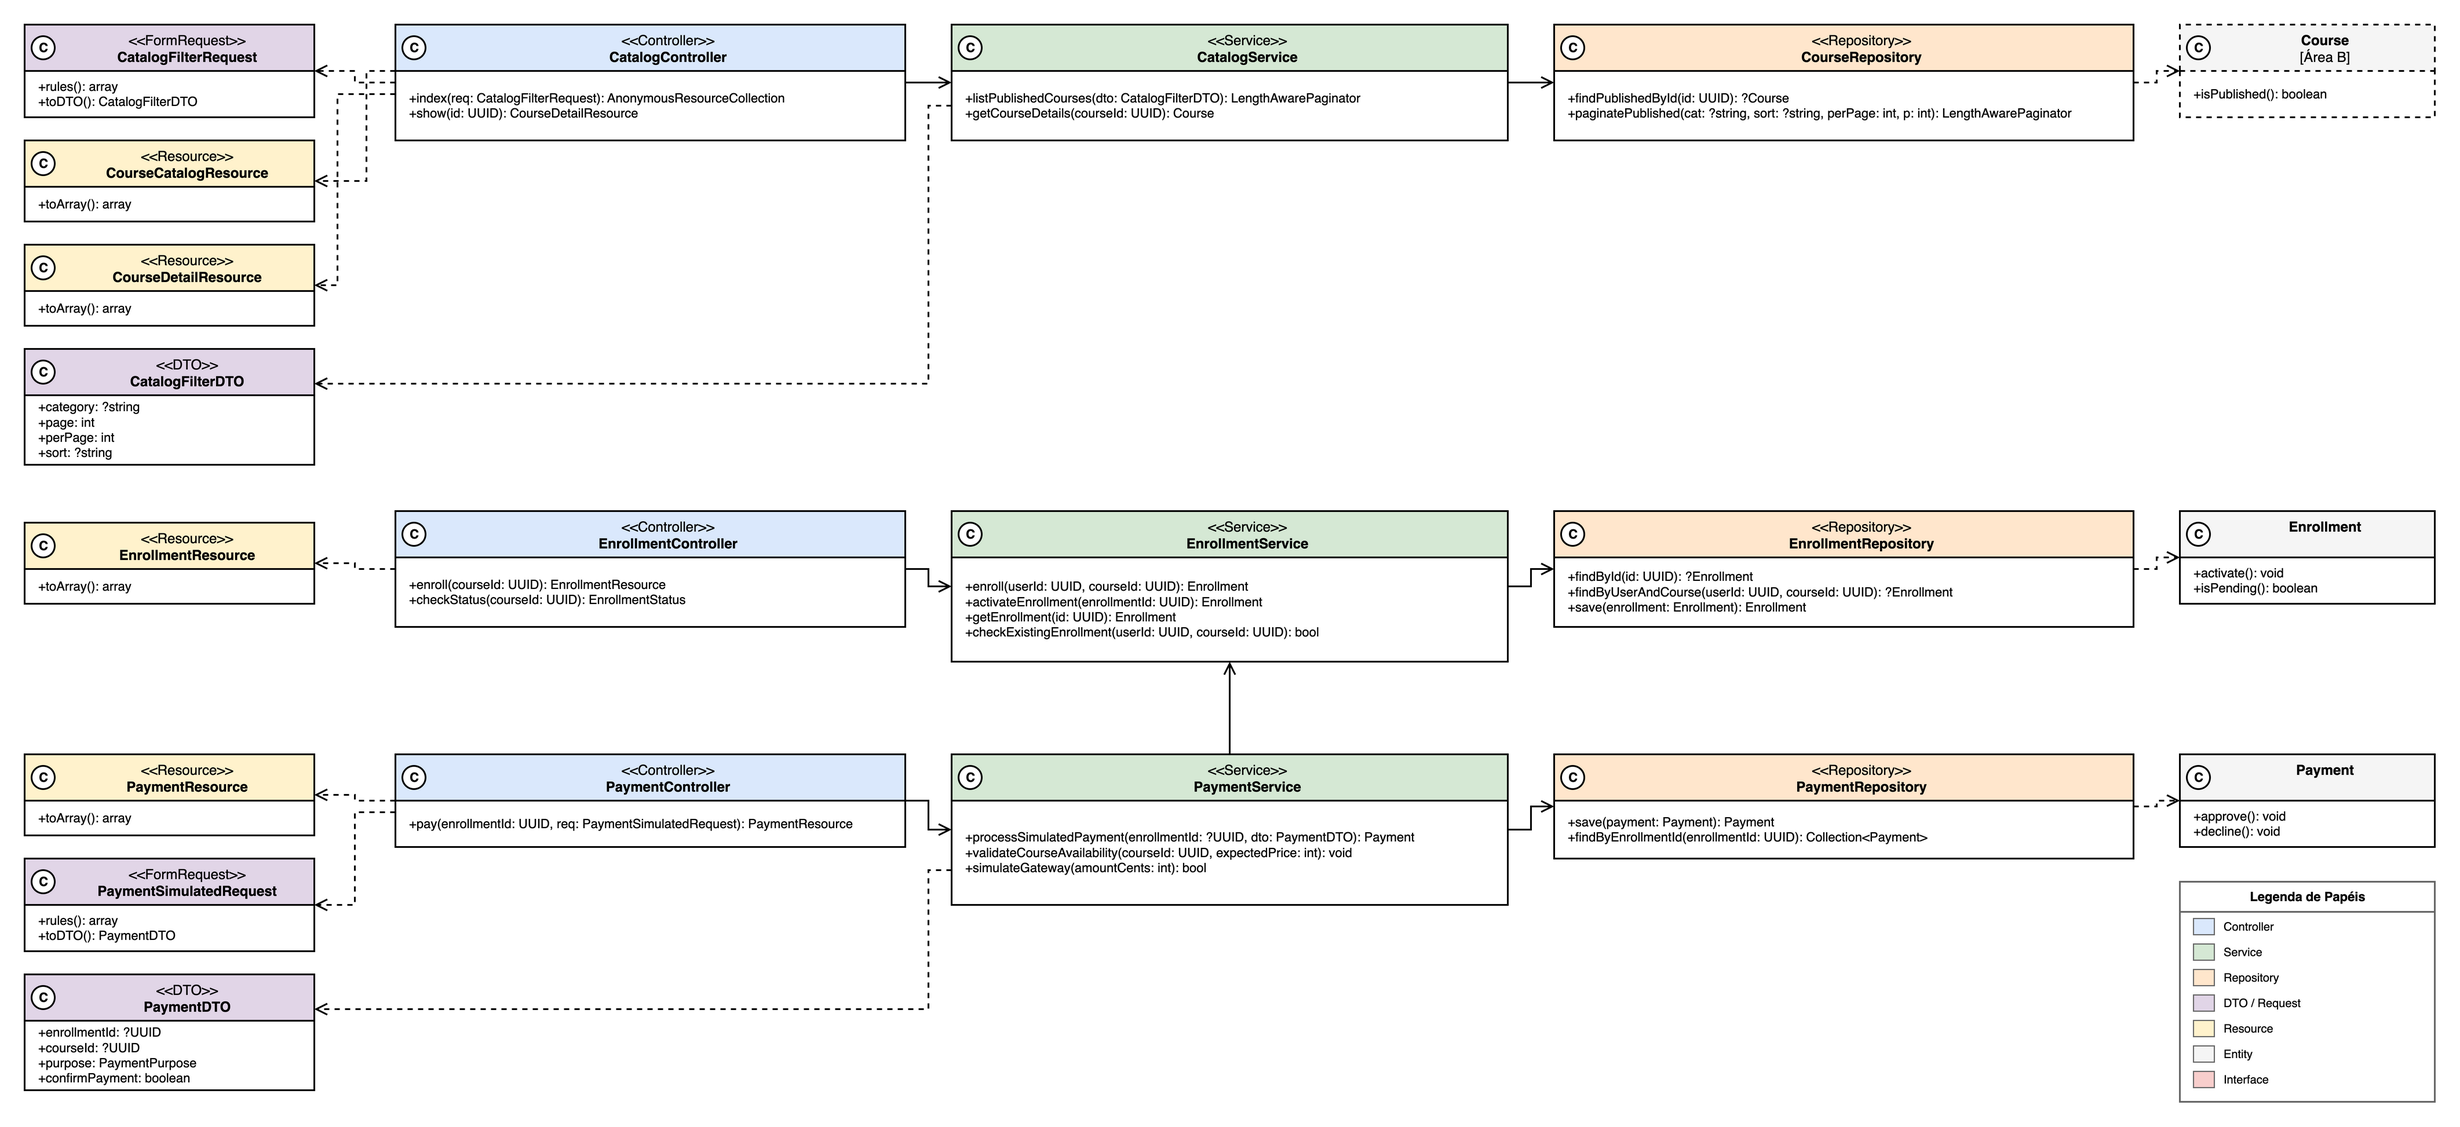
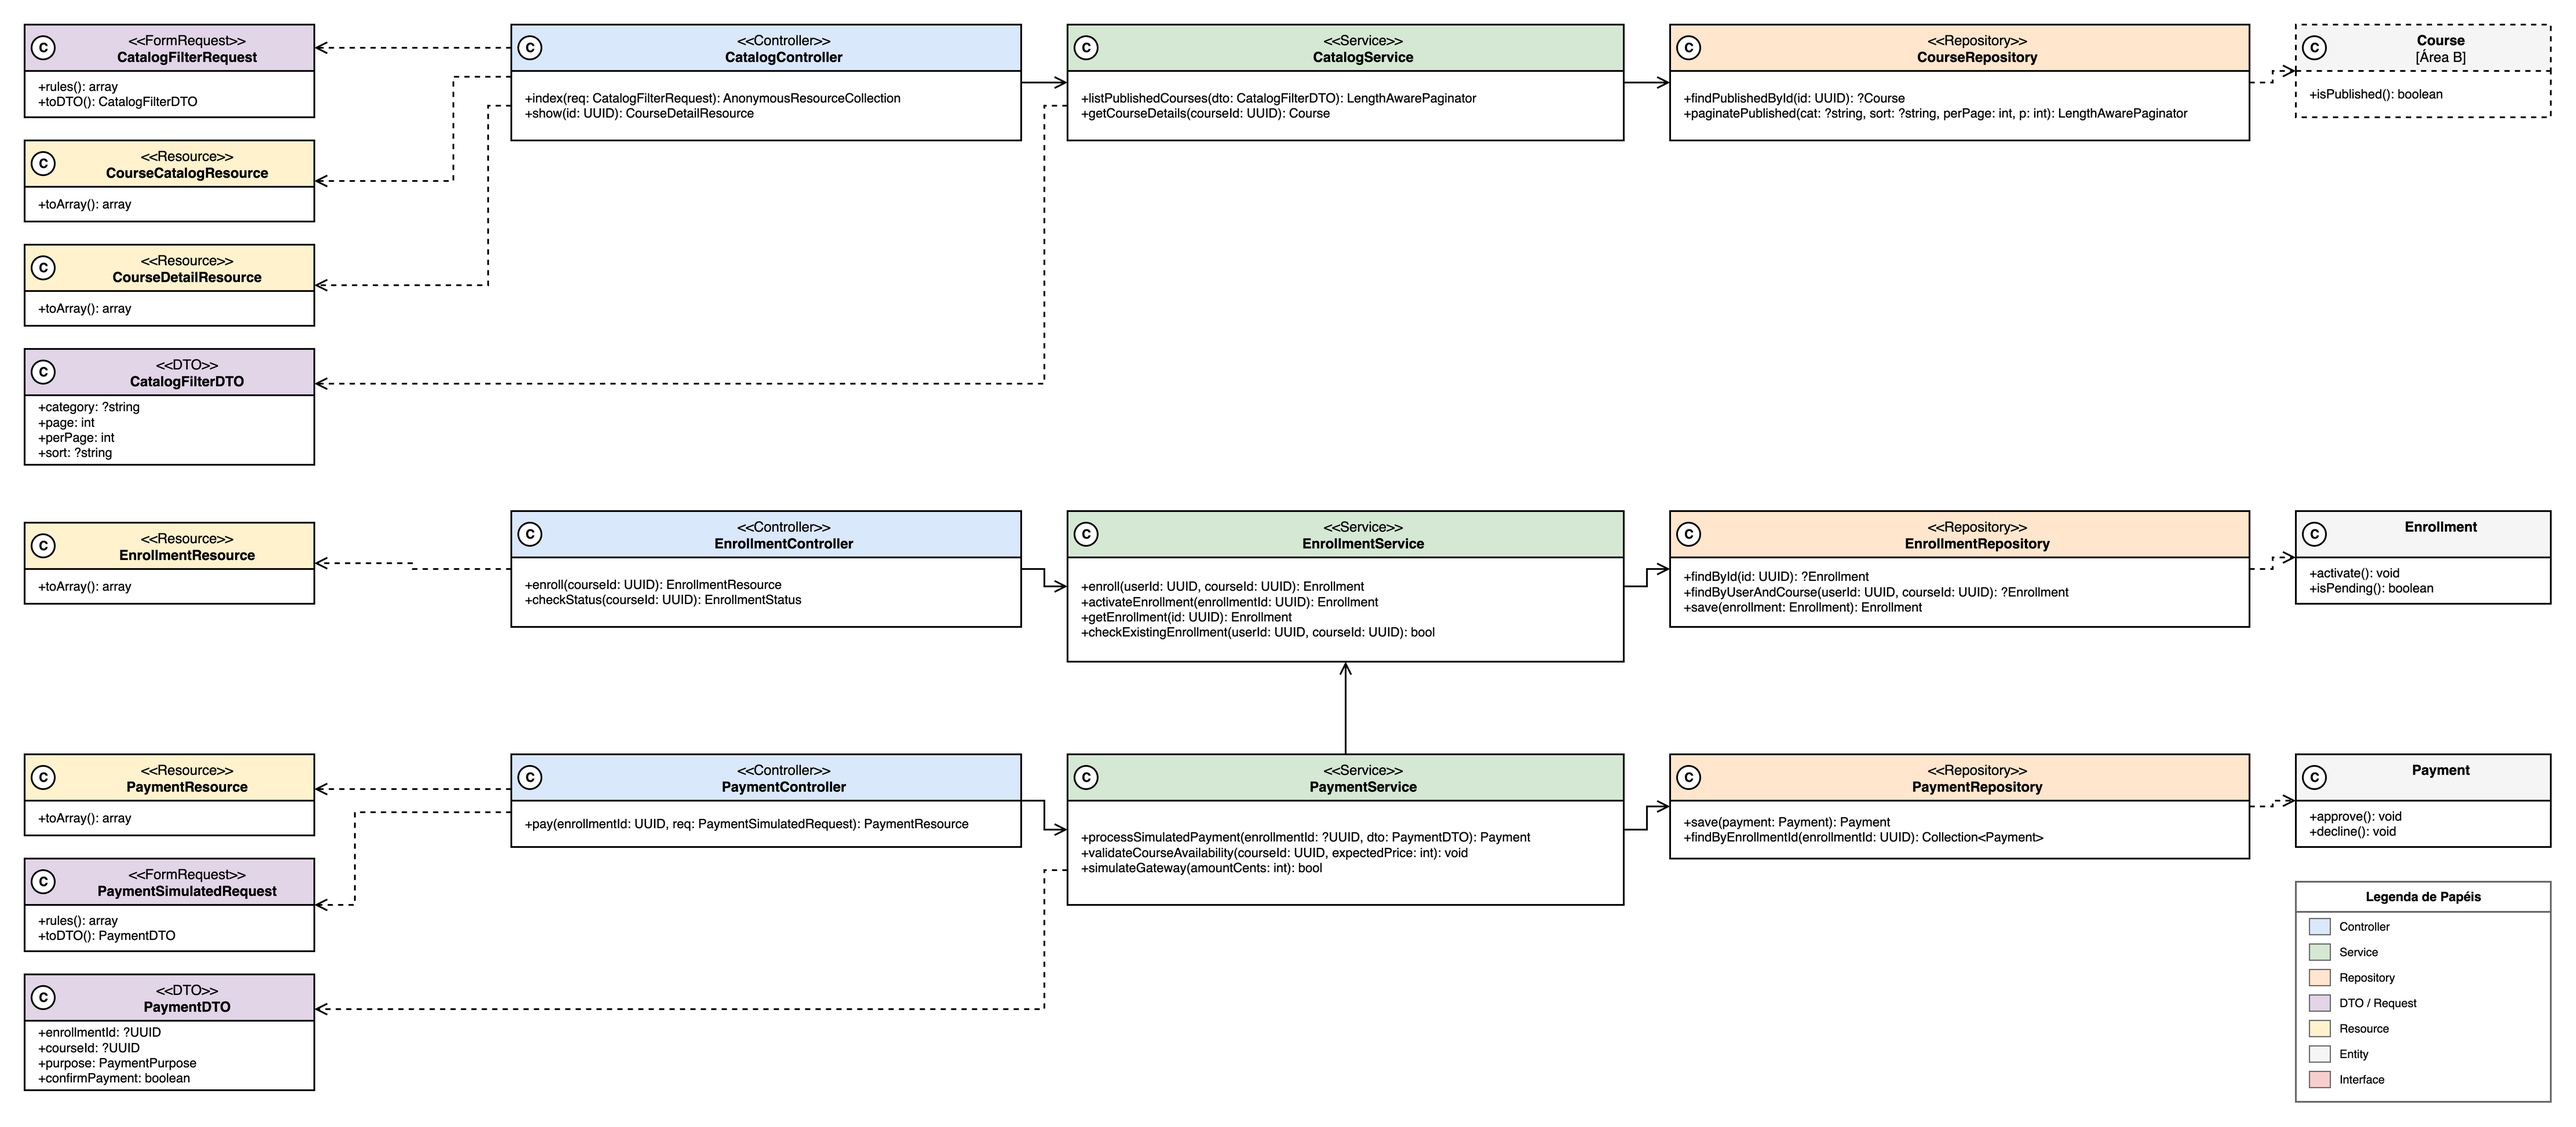
docs(diagrama-de-classes): route Area C diagrams without crossings
The approved Area C diagrams still had arrows that crossed each other or
shared the same corridor, multiplicity labels touching their lines, and a
stepped Payment-to-Enrollment association. In the data model (item 12),
users now sits directly above payments, so the payments-to-users relation
is a short straight edge instead of a loop around the page. In the
enrollment class diagram (item 13), each dashed controller arrow leaves
through its own point and runs in a separate vertical lane. In the
business class diagram, the Payment-to-Enrollment association is straight.
No text, class or relation was changed; only layout and labels moved.

(cherry picked from commit 04b5508355be8b1af91484c151f910d7b17db36a)

diff --git a/CHANGELOG.md b/CHANGELOG.md
@@ -61,6 +61,8 @@ Registro do caminho do documento de especificação da Plataforma de Cursos até
 
 ### Corrigido
 
+- Item 12 da Área C: modelo de dados com `users` acima de `payments`, ligação `payments` a `users` reta e curta, e multiplicidade `0..*` de `payments` a `courses` afastada da linha, porque a seta contornava a página e o `1` caía sobre a ponta (#TBD).
+- Item 13 da Área C: diagramas de classes sem setas cruzadas; no diagrama de matrícula, cada seta tracejada do controller sai por ponto próprio e em faixa vertical separada, e no negocial a ligação `Payment` a `Enrollment` ficou reta, porque as setas se sobrepunham e a seta com degrau dificultava a leitura (#TBD).
 - Área B (Autoria do instrutor): modelo com `Quiz.status`, `Quiz.allowRetake` e `Lesson.indexStatus`; classes e sequências com os nomes desenhados no item 13; bloqueios de exclusão como 409 `CONFLICT`, não 422; casos de teste sem regra no item 10 fora da planilha e cancelamento registrado em `pendencias-area-b.md`, porque o grupo ainda não definiu o fluxo (#TBD).
 - Área C (itens 12 a 15): modelo de dados, classes, sequências e casos de teste alinhados às regras do item 10, ao TDD e entre si (Payment 0..* por matrícula, status em inglês, 404 em UC009 E1, TC054 removido, TC057 renomeado para TC178, TC179 de gabarito oculto), porque a revisão cruzada achou contradições que impediam a conferência (#TBD).
 - Área D (itens 12 a 15): pendências cruzadas #122 (seed do primeiro Administrador, status `blocked` com 403 `ACCOUNT_BLOCKED`, `AuditLog` com retenção de 12 meses pela RNF016, `User.locale` no Tutor de IA e no dashboard) e #123 (409 `CONFLICT` só para exclusão bloqueada, `LESSON_NOT_INDEXED` para aula não indexada, auditoria no UC008) resolvidas; classes e sequências com os métodos do item 13 e os códigos do TDD; casos de teste sem regra inventada, com os removidos registrados em `pendencias-area-d.md` (#TBD).
